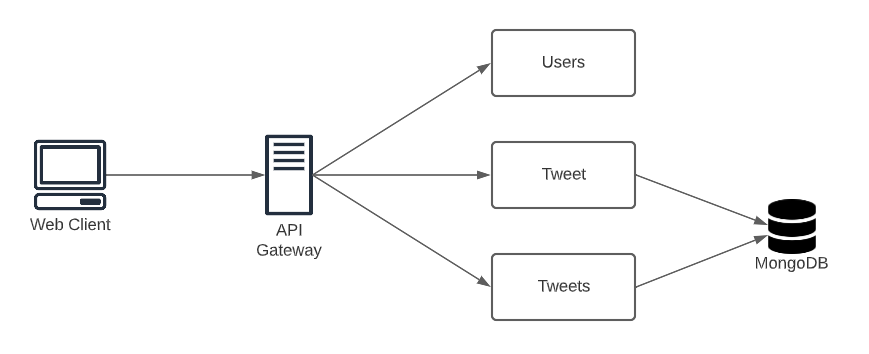
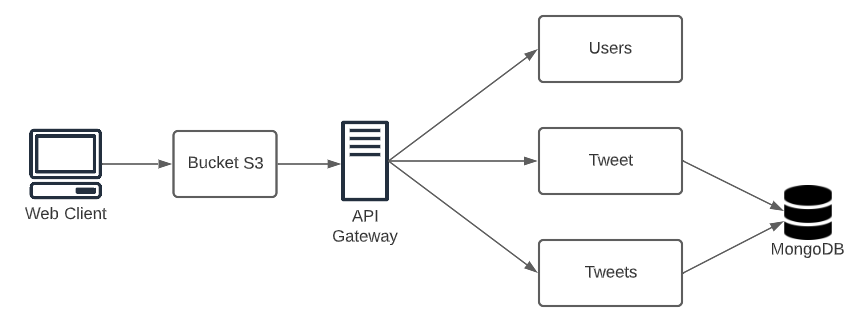
readme updated

diff --git a/README.md b/README.md
@@ -43,7 +43,7 @@ El proyecto está diseñado como se ve en la imagen de abajo donde un browser ha
 
 ### Instancias AWS
 
-1. Instalar Java, en este caso Java 8 con el siguiente comando:
+1. Instalar Java, en este caso Java 11 con el siguiente comando:
 
 ```
 sudo yum install java-11-amazon-corretto-devel
@@ -51,7 +51,7 @@ sudo yum install java-11-amazon-corretto-devel
 java -version
 ```
 
-2. A través de una conexión sftp, subir el proyecto con los archivos de mvn.
+2. A través de una conexión sftp, subir el proyecto con los archivos de mvn y la configuración del proyecto en el archivo application.properties.
 
 3. Instalar Quarkus ejecutando los siguientes comandos:
 
@@ -77,8 +77,75 @@ quarkus dev
 
 No olvidar abrir los puertos necesarios para que el proyecto pueda ser ejecutado correctamente.
 
+### Bucket S3
+
+Una vez se tengan los clientes JS, se deberá crear un bucket S3 en donde se subirán los archivos html y js.
+
+![](img/bucketS3.png)
+
+Este servicio deberá correr por el protocolo https para que pueda ser utilizado en Cognito.
+
+### AWS Cognito
+
+Para hacer uso del servicio de Amazon cognito, se debe crear un grupo de usuarios donde:
+
+1. Configurar la experiencia de inicio de sesión.
+
+    Establecer como opciones de inicio de sesión el nombre de usuario y el correo electrónico.
+
+    ![](img/paso1.png)
+
+2. Configurar los requisitos de seguridad.
+
+    Seleccionar Valores predeterminados de Cognito y en la Autenticación multifactor, seleccionar sin MFA.
+
+    ![](img/paso2.png)
+
+3. Configurar la experiencia de registro.
+
+    Elegir la configuración que trae por defecto.
+
+4. Configurar el envío de mensajes.
+
+    Seleccionar la opción de enviar un correo electrónico con Cognito
+
+    ![](img/paso4.png)
+
+5. Integración de la aplicación.
+
+    Proporcionar un nombre al grupo de usuarios.
+
+    ![](img/paso5-1.png)
+
+    Y finalmente crear un cliente público y no generar un secreto de cliente.
+
+    ![](img/paso5-2.png)
+
+Una vez se completen estos pasos, dirigirse al grupo de usuarios creado y en Integración de aplicaciones buscar el cliente público que se creó. En la sección de interfaz de usuario alojada, se debe fijar la url del servicio que se generó con el bucket S3.
+
+![](img/cognito-client.png)
+
 ## Test
 
+Al hacer clic en Visualización de la interfaz de usuario alojada, nos redirigirá a un login que nos ofrece el servicio de Amazon cognito.
+
+![](img/test-jwl.png)
+
+Al iniciar sesión, este nos dará acceso al proyecto realizado con Quarkus.
+
+![](img/test-log.png)
+
+Se puede corroborar que se creó un token con el usuario registrado JuanPablo70 por medio de la página de JWT.
+
+![](img/jwt.png)
+
+Siguiendo con el ejercicio, una vez un usuario haya iniciado sesión, este puede ver los últimos tweets y también agregar uno nuevo.
+
+![](img/tweets.png)
+
+![](img/tweetpost.png)
+
+![](img/getweet.png)
 
 ## Construido con
 
